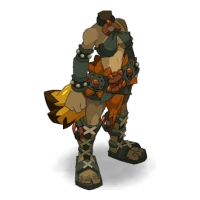
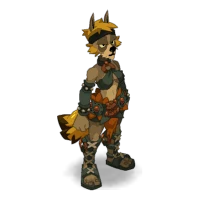
Ouginak féminin : retrait des 6 têtes défectueuses
Les têtes 3520 à 3525 du rendu Ankama donnent une Ouginak sans tête ou avec une coiffe d'objet à la place. On garde les deux têtes correctes (3526, 3527) ; les images locales de secours sont recopiées en conséquence.

Claude-Session: https://claude.ai/code/session_015qLdJVa5fZSSRyhreSRigB

Changed region(s): [[0.21, 0.03, 0.75, 0.96]]

diff --git a/js/looks.js b/js/looks.js
@@ -1,7 +1,7 @@
 /* idlus — apparences des héros (3.1)
    Rendus officiels des apparences DOFUS (corps de classe, têtes, couleurs) + correspondances objet → apparence établies par idlus. */
 (function (root) {
-  const CLASS_LOOKS = {"feca":{"m":{"body":10,"heads":[2012,2013,2014,2015,2016,2017,2018,2019],"colors":[15047528,7814953,14185518,4809554,5319189]},"f":{"body":11,"heads":[2020,2021,2022,2023,2024,2025,2026,2027],"colors":[15047528,7814953,14185518,4809554,5319189]}},"osa":{"m":{"body":20,"heads":[2028,2029,2030,2031,2032,2033,2034,2035],"colors":[14325094,14732959,3572096,4800822,16755757]},"f":{"body":21,"heads":[2036,2037,2038,2039,2040,2041,2042,2043],"colors":[14325094,14732959,3572096,4800822,16755757]}},"enu":{"m":{"body":30,"heads":[2044,2045,2046,2047,2048,2049,2050,2051],"colors":[13732958,15851694,3093806,14325820,7814953]},"f":{"body":31,"heads":[2052,2053,2054,2055,2056,2057,2058,2059],"colors":[16297081,15588265,3159600,14517248,7814953]}},"sram":{"m":{"body":40,"heads":[2060,2061,2062,2063,2064,2065,2066,2067],"colors":[14206857,15392448,3435918,6177568,10715217]},"f":{"body":41,"heads":[2068,2069,2070,2071,2072,2073,2074,2075],"colors":[14325094,15392448,3435918,6177568,3435918]}},"xelor":{"m":{"body":50,"heads":[2076,2077,2078,2079,2080,2081,2082,2083],"colors":[8550749,15782577,1923718,6700064,15042816]},"f":{"body":51,"heads":[2084,2085,2086,2087,2088,2089,2090,2091],"colors":[8550749,14533780,1923718,6700064,15042816]}},"eca":{"m":{"body":60,"heads":[2092,2093,2094,2095,2096,2097,2098,2099],"colors":[14732959,15173176,15690532,5478807,7687730]},"f":{"body":61,"heads":[2100,2101,2102,2103,2104,2105,2106,2107],"colors":[14732959,15173176,15690532,5478807,7687730]}},"eni":{"m":{"body":70,"heads":[2108,2109,2110,2111,2112,2113,2114,2115],"colors":[14325094,7814953,13997612,4739655,6833937]},"f":{"body":71,"heads":[2116,2117,2118,2119,2120,2121,2122,2123],"colors":[15047528,14996664,14368563,14471352,9799968]}},"iop":{"m":{"body":80,"heads":[2124,2125,2126,2127,2128,2129,2130,2131],"colors":[15704172,15301153,14736065,12200764,484225]},"f":{"body":81,"heads":[2132,2133,2134,2135,2136,2137,2138,2139],"colors":[15047528,15301153,14736065,12200764,12200764]}},"cra":{"m":{"body":90,"heads":[2140,2141,2142,2143,2144,2145,2146,2147],"colors":[15047528,14383411,7696171,8675096,9392643]},"f":{"body":91,"heads":[2148,2149,2150,2151,2152,2153,2154,2155],"colors":[15047528,14383411,7696171,9392643,9392643]}},"sadi":{"m":{"body":100,"heads":[2156,2157,2158,2159,2160,2161,2162,2163],"colors":[9329441,7966996,15914657,7820329,15914657]},"f":{"body":101,"heads":[2164,2165,2166,2167,2168,2169,2170,2171],"colors":[12282670,7966996,14994072,10711608,15258276]}},"sacri":{"m":{"body":110,"heads":[2172,2173,2174,2175,2176,2177,2178,2179],"colors":[15047528,15896377,8287530,8727092,16422159]},"f":{"body":111,"heads":[2180,2181,2182,2183,2184,2185,2186,2187],"colors":[15047528,15896377,8287530,8727092,16422159]}},"panda":{"m":{"body":120,"heads":[2188,2189,2190,2191,2192,2193,2194,2195],"colors":[13418918,5329968,9904435,3423523,14533780]},"f":{"body":121,"heads":[2196,2197,2198,2199,2200,2201,2202,2203],"colors":[13418918,5329968,9904435,9904435,14533780]}},"roub":{"m":{"body":1405,"heads":[2204,2205,2206,2207,2208,2209,2210,2211],"colors":[15047528,1341042,3883833,15703040,7098924]},"f":{"body":1407,"heads":[2212,2213,2214,2215,2216,2217,2218,2219],"colors":[15047528,1341042,3883833,15703040,7098924]}},"zobal":{"m":{"body":1437,"heads":[2220,2221,2222,2223,2224,2225,2226,2227],"colors":[15572842,9836073,4863523,1855824,11839343]},"f":{"body":1438,"heads":[2228,2229,2230,2231,2232,2233,2234,2235],"colors":[15572842,9836073,4863523,1855824,11839343]}},"steam":{"m":{"body":1663,"heads":[2236,2237,2238,2239,2240,2241,2242,2243],"colors":[14785388,15060409,3882547,11430949,10984301]},"f":{"body":1664,"heads":[2244,2245,2246,2247,2248,2249,2250,2251],"colors":[14785388,15060409,3882547,11430949,10984301]}},"elio":{"m":{"body":3179,"heads":[3183,3184,3185,3186,3187,3188,3189,3190],"colors":[16112841,10072765,8211000,16765866,2388929]},"f":{"body":3180,"heads":[3199,3200,3201,3202,3203,3204,3205,3206],"colors":[16112841,10072765,8211000,16765866,2388929]}},"hupper":{"m":{"body":3285,"heads":[3289,3290,3291,3292,3293,3294,3295,3296],"colors":[16104582,16439198,2663850,15071441,16643820]},"f":{"body":3286,"heads":[3297,3298,3299,3300,3301,3302,3303,3304],"colors":[16104582,16439198,2663850,13426363,15987438]}},"ougi":{"m":{"body":3498,"heads":[3504,3505,3506,3507,3508,3509,3510,3511],"colors":[9795658,9989653,8077087,4081977,12868619]},"f":{"body":3499,"heads":[3520,3521,3522,3523,3524,3525,3526,3527],"colors":[9598537,13012508,8077087,4081977,9717256]}},"forge":{"m":{"body":3221,"heads":[4364,4365,4366,4367,4368,4369,4370,4371],"colors":[15047528,7814953,4276545,15325098,8885653]},"f":{"body":3633,"heads":[4363,4374,4375,4376,4377,4378,4379,4372],"colors":[15047528,7814953,4276545,15325098,8885653]}}};
+  const CLASS_LOOKS = {"feca":{"m":{"body":10,"heads":[2012,2013,2014,2015,2016,2017,2018,2019],"colors":[15047528,7814953,14185518,4809554,5319189]},"f":{"body":11,"heads":[2020,2021,2022,2023,2024,2025,2026,2027],"colors":[15047528,7814953,14185518,4809554,5319189]}},"osa":{"m":{"body":20,"heads":[2028,2029,2030,2031,2032,2033,2034,2035],"colors":[14325094,14732959,3572096,4800822,16755757]},"f":{"body":21,"heads":[2036,2037,2038,2039,2040,2041,2042,2043],"colors":[14325094,14732959,3572096,4800822,16755757]}},"enu":{"m":{"body":30,"heads":[2044,2045,2046,2047,2048,2049,2050,2051],"colors":[13732958,15851694,3093806,14325820,7814953]},"f":{"body":31,"heads":[2052,2053,2054,2055,2056,2057,2058,2059],"colors":[16297081,15588265,3159600,14517248,7814953]}},"sram":{"m":{"body":40,"heads":[2060,2061,2062,2063,2064,2065,2066,2067],"colors":[14206857,15392448,3435918,6177568,10715217]},"f":{"body":41,"heads":[2068,2069,2070,2071,2072,2073,2074,2075],"colors":[14325094,15392448,3435918,6177568,3435918]}},"xelor":{"m":{"body":50,"heads":[2076,2077,2078,2079,2080,2081,2082,2083],"colors":[8550749,15782577,1923718,6700064,15042816]},"f":{"body":51,"heads":[2084,2085,2086,2087,2088,2089,2090,2091],"colors":[8550749,14533780,1923718,6700064,15042816]}},"eca":{"m":{"body":60,"heads":[2092,2093,2094,2095,2096,2097,2098,2099],"colors":[14732959,15173176,15690532,5478807,7687730]},"f":{"body":61,"heads":[2100,2101,2102,2103,2104,2105,2106,2107],"colors":[14732959,15173176,15690532,5478807,7687730]}},"eni":{"m":{"body":70,"heads":[2108,2109,2110,2111,2112,2113,2114,2115],"colors":[14325094,7814953,13997612,4739655,6833937]},"f":{"body":71,"heads":[2116,2117,2118,2119,2120,2121,2122,2123],"colors":[15047528,14996664,14368563,14471352,9799968]}},"iop":{"m":{"body":80,"heads":[2124,2125,2126,2127,2128,2129,2130,2131],"colors":[15704172,15301153,14736065,12200764,484225]},"f":{"body":81,"heads":[2132,2133,2134,2135,2136,2137,2138,2139],"colors":[15047528,15301153,14736065,12200764,12200764]}},"cra":{"m":{"body":90,"heads":[2140,2141,2142,2143,2144,2145,2146,2147],"colors":[15047528,14383411,7696171,8675096,9392643]},"f":{"body":91,"heads":[2148,2149,2150,2151,2152,2153,2154,2155],"colors":[15047528,14383411,7696171,9392643,9392643]}},"sadi":{"m":{"body":100,"heads":[2156,2157,2158,2159,2160,2161,2162,2163],"colors":[9329441,7966996,15914657,7820329,15914657]},"f":{"body":101,"heads":[2164,2165,2166,2167,2168,2169,2170,2171],"colors":[12282670,7966996,14994072,10711608,15258276]}},"sacri":{"m":{"body":110,"heads":[2172,2173,2174,2175,2176,2177,2178,2179],"colors":[15047528,15896377,8287530,8727092,16422159]},"f":{"body":111,"heads":[2180,2181,2182,2183,2184,2185,2186,2187],"colors":[15047528,15896377,8287530,8727092,16422159]}},"panda":{"m":{"body":120,"heads":[2188,2189,2190,2191,2192,2193,2194,2195],"colors":[13418918,5329968,9904435,3423523,14533780]},"f":{"body":121,"heads":[2196,2197,2198,2199,2200,2201,2202,2203],"colors":[13418918,5329968,9904435,9904435,14533780]}},"roub":{"m":{"body":1405,"heads":[2204,2205,2206,2207,2208,2209,2210,2211],"colors":[15047528,1341042,3883833,15703040,7098924]},"f":{"body":1407,"heads":[2212,2213,2214,2215,2216,2217,2218,2219],"colors":[15047528,1341042,3883833,15703040,7098924]}},"zobal":{"m":{"body":1437,"heads":[2220,2221,2222,2223,2224,2225,2226,2227],"colors":[15572842,9836073,4863523,1855824,11839343]},"f":{"body":1438,"heads":[2228,2229,2230,2231,2232,2233,2234,2235],"colors":[15572842,9836073,4863523,1855824,11839343]}},"steam":{"m":{"body":1663,"heads":[2236,2237,2238,2239,2240,2241,2242,2243],"colors":[14785388,15060409,3882547,11430949,10984301]},"f":{"body":1664,"heads":[2244,2245,2246,2247,2248,2249,2250,2251],"colors":[14785388,15060409,3882547,11430949,10984301]}},"elio":{"m":{"body":3179,"heads":[3183,3184,3185,3186,3187,3188,3189,3190],"colors":[16112841,10072765,8211000,16765866,2388929]},"f":{"body":3180,"heads":[3199,3200,3201,3202,3203,3204,3205,3206],"colors":[16112841,10072765,8211000,16765866,2388929]}},"hupper":{"m":{"body":3285,"heads":[3289,3290,3291,3292,3293,3294,3295,3296],"colors":[16104582,16439198,2663850,15071441,16643820]},"f":{"body":3286,"heads":[3297,3298,3299,3300,3301,3302,3303,3304],"colors":[16104582,16439198,2663850,13426363,15987438]}},"ougi":{"m":{"body":3498,"heads":[3504,3505,3506,3507,3508,3509,3510,3511],"colors":[9795658,9989653,8077087,4081977,12868619]},"f":{"body":3499,"heads":[3526,3527],"colors":[9598537,13012508,8077087,4081977,9717256]}},"forge":{"m":{"body":3221,"heads":[4364,4365,4366,4367,4368,4369,4370,4371],"colors":[15047528,7814953,4276545,15325098,8885653]},"f":{"body":3633,"heads":[4363,4374,4375,4376,4377,4378,4379,4372],"colors":[15047528,7814953,4276545,15325098,8885653]}}};
   /* coiffes et capes dont l'apparence est connue (les autres n'apparaissent pas encore sur le héros) */
   const ITEM_SKINS = {"i8534":191,"i937":212,"i8232":167,"i2473":124,"i8231":166,"i8236":168,"i8233":170,"i8235":169,"i8234":171,"i773":88,"i776":92,"i6916":319,"i947":217,"i744":84,"i1021":1171,"i2414":119,"i6720":131,"i8258":172,"i957":208,"i8112":161,"i7108":320,"i2445":122,"i2382":112,"i2412":117,"i2534":128,"i2489":125,"i1695":93,"i8247":283,"i8246":284,"i2474":242,"i8248":285,"i6917":262,"i8125":276,"i2411":239,"i6719":251,"i8259":286,"i701":226,"i10828":265,"i702":227,"i708":433,"i2641":247,"i2438":240,"i2070":249,"i7109":269,"i2095":234,"i2409":237,"i2535":245,"i6760":257,"i6991":1094,"i1908":1066,"i8304":295,"i7887":1100,"i8285":293,"i6764":428,"i8163":450,"i8845":309,"i2546":246,"i8330":416,"i8463":302,"i7151":440,"i6481":250,"i8243":280,"i8244":281,"i8245":282};
   /* palettes : la couleur 1 (peau) est conservée, les autres sont remplacées */
